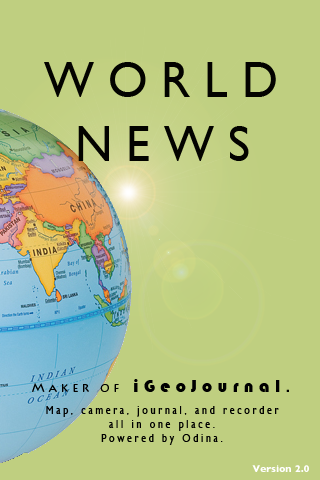
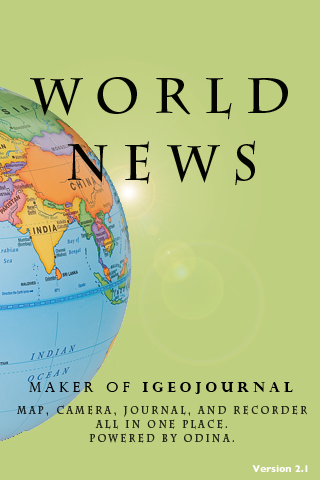
Add thumb history dictionary to prevent being removed.
git-svn-id: http://localhost:8090/svn/BBCReader2@644 725052e4-4a61-44f1-851b-6ef29ce6032e

diff --git a/Classes/Configuration.m b/Classes/Configuration.m
@@ -106,7 +106,9 @@ NSString *readStringSeparatedBySpace(const char *data, int len, int *index)
 		
 		NSLog(@"Config file: %@", configLocation);
 		 */
+		// TODO: clean up these dictionary at some point.
 		historyDictionary = [[NSMutableDictionary alloc] initWithCapacity:MAX_HISTORY_NUM];
+		thumbHistoryDictionary = [[NSMutableDictionary alloc] initWithCapacity:MAX_HISTORY_NUM];
 		cacheService = [WebCacheService sharedWebCacheServiceInstance];
 		historyIndex = -1;
 		[self readSettings];
@@ -341,6 +343,11 @@ clean:
 	return ([historyDictionary objectForKey:file]==nil?NO:YES);
 }
 
+- (BOOL)isThumbInHistory:(NSString*)file
+{
+	return ([thumbHistoryDictionary objectForKey:file]==nil?NO:YES);
+}
+
 - (void)saveWebLinkPreference:(WebLink*)link
 {
 	NSString *key = [[NSString alloc] initWithFormat:@"%@%d", HISTORY_TEXT, historyIndex];
@@ -396,6 +403,13 @@ clean:
 					TRACE("%s: add %s: %s to history.\n", __func__, [link.url UTF8String], [file UTF8String]);
 					[historyLink addObject:link];
 					[historyDictionary setObject:link forKey:file];
+					if (link.imageLink != nil) {
+						file = [link.imageLink lastPathComponent];
+						if ([manager fileExistsAtPath:getActualPath(link.imageLink)] && [thumbHistoryDictionary objectForKey:file] == nil) {
+							[thumbHistoryDictionary setObject:link.imageLink forKey:file];
+							NSLog(@"Add this thumb to history: %@", file);
+						}
+					}
 				}
 				else {
 					TRACE("%s, this will not be added: %s\n", __func__, [file UTF8String]);

diff --git a/Classes/WebCacheService.m b/Classes/WebCacheService.m
@@ -327,6 +327,13 @@ int OPEN(NSString* name, int flag)
 	return [path stringByAppendingPathComponent:@"html"];
 }
 
+- (NSString*)getThumbPathWithHost:(NSString*)host
+{
+	NSString *path = [rootLocation stringByAppendingPathComponent:host];
+	
+	return [path stringByAppendingPathComponent:@"thumb"];
+}
+
 - (NSMutableArray*) getUrlForIndex:(NSString*)file forCategory:(cache_category_t)category
 {
 	NSMutableArray* objects = nil;
@@ -1364,9 +1371,14 @@ cleanLast:
 	
 	NSString *file = (NSString*) key;
 	
-	if ([self unlinkThisThumbFile:file] == YES) {
-		TRACE("%s, removing this file: %s.\n", __func__, [file UTF8String]);
-		nThumbGarbage++;
+	Configuration *config = [Configuration sharedConfigurationInstance];
+	
+	if ([config isThumbInHistory:file] == NO) {
+		// Remove only when this file is not in hash.
+		if ([self unlinkThisThumbFile:file] == YES) {
+			NSLog(@"%s, removing this file: %s.\n", __func__, [file UTF8String]);
+			nThumbGarbage++;
+		}
 	}
 	
 	[thumbDictionary removeObjectForKey:key];

diff --git a/Classes/SettingsView.m b/Classes/SettingsView.m
@@ -130,7 +130,7 @@ enum ControlTableSections
 		}
 		case kUIInformation_Section:
 		{
-			title = @"Message (v.2.0):";
+			title = @"Message (v.2.1):";
 			break;
 		}
 	}
@@ -355,7 +355,7 @@ enum ControlTableSections
 			}
 			else {
 				if (downloadProgress > 0.9) {
-					((SourceCell*)cell).sourceLabel.text = @"The current version downloads the minimum requried objects to display a web page. You may see some broken links in offline mode.";
+					((SourceCell*)cell).sourceLabel.text = @"The current version downloads the minimum required objects to display a web page. You may see some broken links in offline mode.";
 				}
 				else {
 					((SourceCell*)cell).sourceLabel.text = @"For best results, please do the first sync in 3G or WiFi.";

diff --git a/Classes/Configuration.h b/Classes/Configuration.h
@@ -22,6 +22,7 @@
 	pthread_mutex_t fileMutex;
 	NSMutableArray	*history;
 	NSMutableDictionary *historyDictionary;
+	NSMutableDictionary *thumbHistoryDictionary;
 	int				historyIndex;
 	WebCacheService *cacheService;
 	NSString		*lastUsedURLHash;
@@ -47,5 +48,6 @@
 - (BOOL)isFileInHistory:(NSString*)file;
 - (void)setOfflineMode:(BOOL)mode;
 - (void)clearHistory;
+- (BOOL)isThumbInHistory:(NSString*)file;
 
 @end

diff --git a/Classes/WebCacheService.h b/Classes/WebCacheService.h
@@ -107,5 +107,6 @@
 - (BOOL)doGarbageCollectionForThumbnail;
 - (void)emptyCache;
 - (BOOL)isCacheCreated;
+- (NSString*)getThumbPathWithHost:(NSString*)host;
 
 @end

diff --git a/Classes/NetworkService.m b/Classes/NetworkService.m
@@ -999,6 +999,7 @@ clean:
 			
 			if (cont == YES) continue;
 		}
+		 
 		
 	waitLoop:
 		activeThreadCount--;
